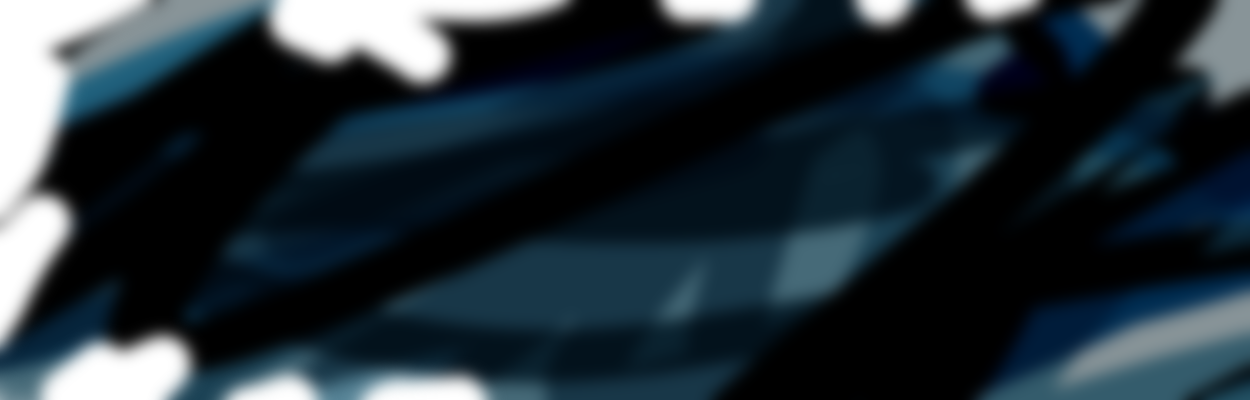
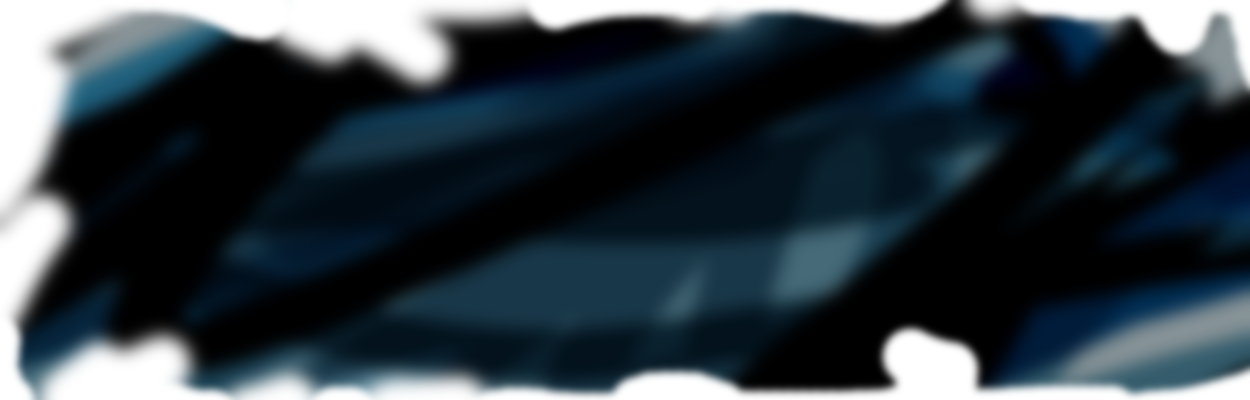
.

diff --git a/vn.py b/vn.py
@@ -53,7 +53,6 @@ while running:
     
     dt = timer.tick(60)
     ms_per_char = 50 / speed
-    print(dt)
 
     #bg
     img = pygame.image.load(bg+".png").convert()
@@ -61,6 +60,7 @@ while running:
     display.blit(img, (0,0))
 
     if text[0] == "char+": 
+        print(text[1])
         charbodys.append(text[1])
         textIndex += 1
         count = 0
@@ -84,6 +84,9 @@ while running:
         elif char["fading"].lower() == "out":
             if char["alpha"] <= 0:
                 char["fading"] == "none"
+                char["alpha"] = 0.0
+                char["fading"] = "in"
+                #print(char)
                 charbodys.remove(char)
             else:
                 char["alpha"] -= dt / 1.25
